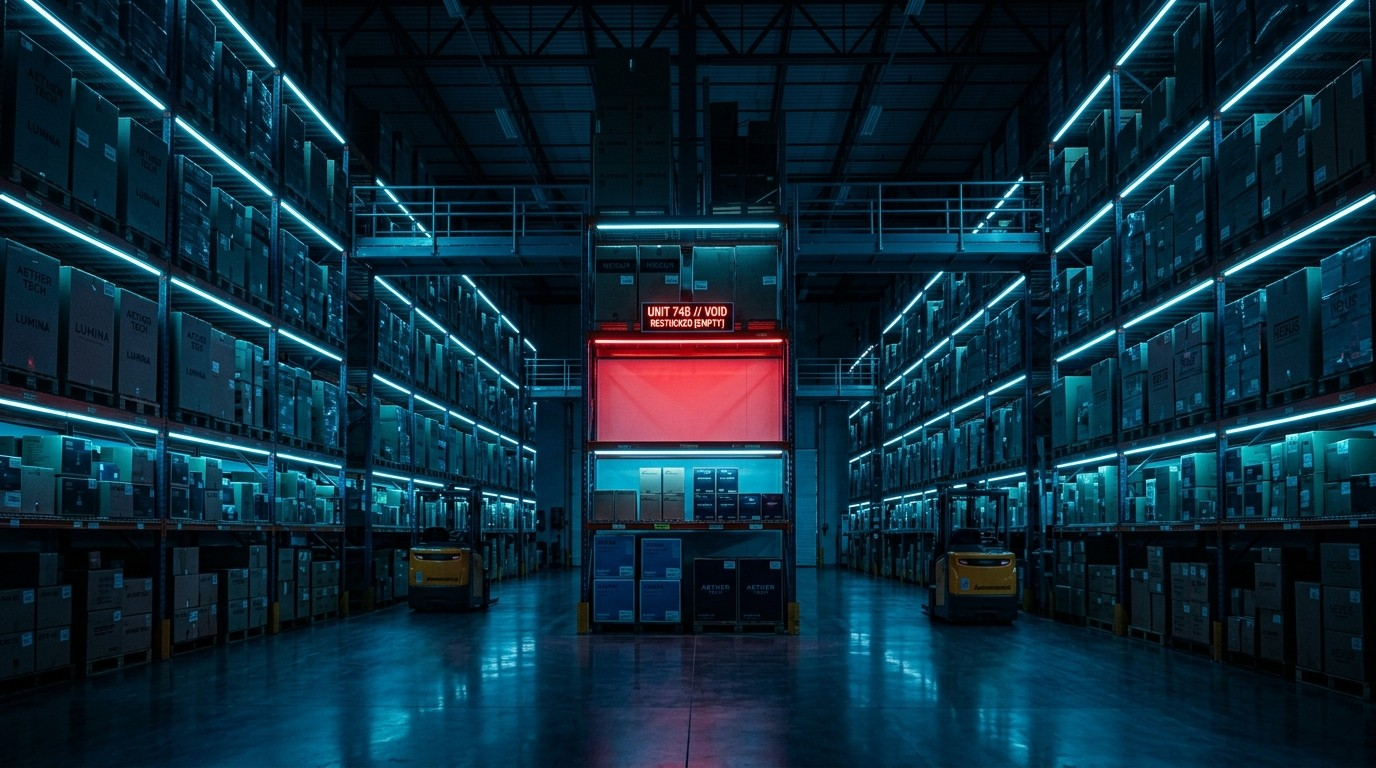
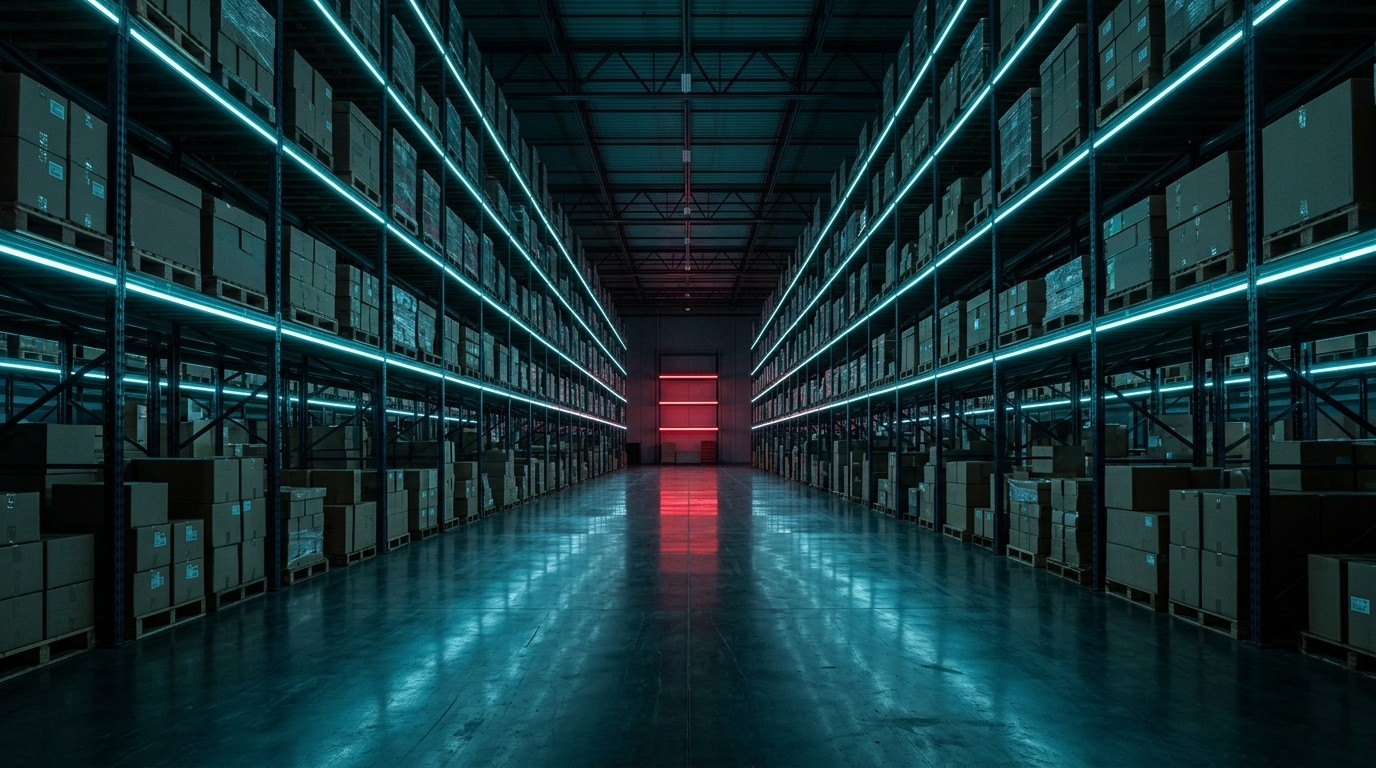
fix(hero): replace warehouse background with clean unwatermarked asset and set 'Can\'t See.' headline to crisp white

diff --git a/src/features/hero/HeroSection.tsx b/src/features/hero/HeroSection.tsx
@@ -452,11 +452,11 @@ export const HeroSection: React.FC<HeroSectionProps> = ({
         }
 
         .hero-headline-accent {
-          color: #38bdf8;
-          background: linear-gradient(135deg, #00f2fe 0%, #38bdf8 50%, #60a5fa 100%);
-          -webkit-background-clip: text;
-          -webkit-text-fill-color: transparent;
-          filter: drop-shadow(0 0 20px rgba(0, 242, 254, 0.4));
+          color: #ffffff;
+          -webkit-text-fill-color: #ffffff;
+          background: none;
+          text-shadow: 0 2px 14px rgba(0, 0, 0, 0.7), 0 0 24px rgba(0, 242, 254, 0.25);
+          filter: none;
         }
 
         @media (min-width: 768px) {
